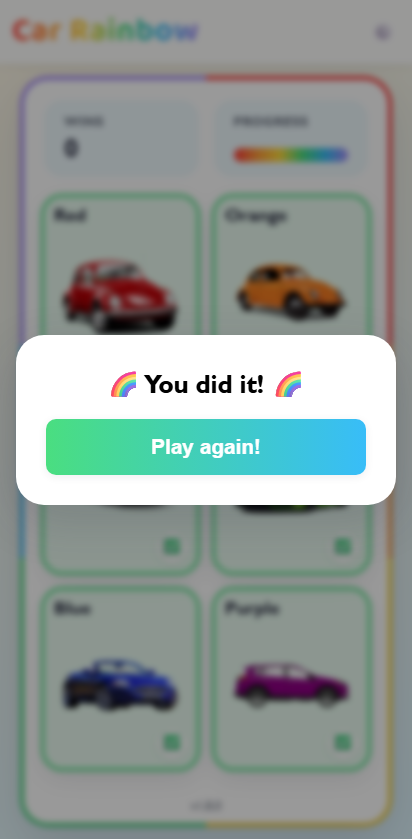
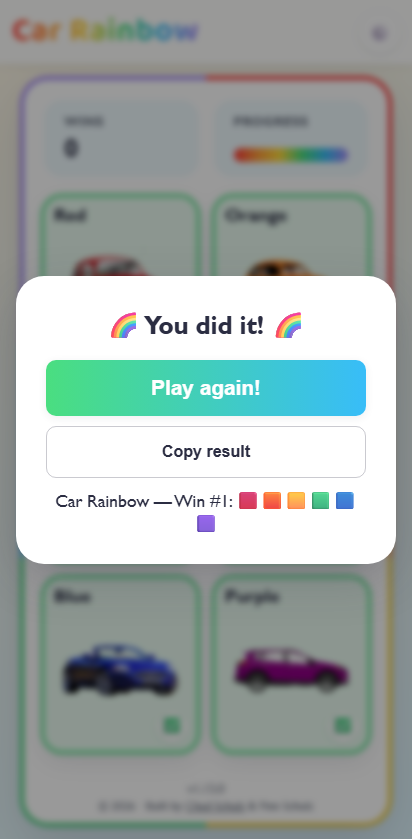
v1.14.0 — Shareable results

diff --git a/src/js/CarRainbow.test.jsx b/src/js/CarRainbow.test.jsx
@@ -81,6 +81,35 @@ describe('CarRainbow', () => {
         expect(screen.getByText('🌈 You did it! 🌈')).toBeInTheDocument();
     });
 
+    it('copies an emoji-grid result encoding the find order to the clipboard', async () => {
+        const user = userEvent.setup();
+        const writeText = vi.spyOn(navigator.clipboard, 'writeText').mockResolvedValue(undefined);
+        render(<CarRainbow />);
+
+        await findAllCars(user);
+        await user.click(screen.getByRole('button', { name: 'Copy result' }));
+
+        expect(writeText).toHaveBeenLastCalledWith('Car Rainbow — Win #1: 🟥🟧🟨🟩🟦🟪');
+        expect(await screen.findByRole('button', { name: 'Copied!' })).toBeInTheDocument();
+    });
+
+    it('opens the native share sheet instead of copying when the Web Share API is available', async () => {
+        const user = userEvent.setup();
+        const share = vi.fn().mockResolvedValue(undefined);
+        Object.defineProperty(navigator, 'share', { value: share, configurable: true });
+
+        try {
+            render(<CarRainbow />);
+            await findAllCars(user);
+            await user.click(screen.getByRole('button', { name: 'Share result' }));
+
+            expect(share).toHaveBeenCalledWith({ text: 'Car Rainbow — Win #1: 🟥🟧🟨🟩🟦🟪' });
+            expect(screen.queryByRole('button', { name: 'Copied!' })).not.toBeInTheDocument();
+        } finally {
+            delete navigator.share;
+        }
+    });
+
     it('resets the board and increments wins on replay', async () => {
         const user = userEvent.setup();
         render(<CarRainbow />);

diff --git a/src/js/Replay.jsx b/src/js/Replay.jsx
@@ -1,6 +1,26 @@
-import React, { forwardRef } from 'react';
+import React, { forwardRef, useState } from 'react';
+
+const COPIED_MESSAGE_DURATION = 2000;
 
 const Replay = forwardRef(function Replay(props, ref) {
+    const [copied, setCopied] = useState(false);
+    const canShare = typeof navigator.share === 'function';
+
+    async function shareResult() {
+        if (canShare) {
+            try {
+                await navigator.share({ text: props.shareText });
+            } catch (error) {
+                // user dismissed the share sheet — nothing to report
+            }
+            return;
+        }
+
+        await navigator.clipboard.writeText(props.shareText);
+        setCopied(true);
+        setTimeout(() => setCopied(false), COPIED_MESSAGE_DURATION);
+    }
+
     return (
         <dialog ref={ref} className="dialog" aria-labelledby="replay-title">
             <h3 id="replay-title" className="dialog__title">
@@ -10,6 +30,12 @@ const Replay = forwardRef(function Replay(props, ref) {
                 <button type="button" className="button" onClick={() => props.replayClick()}>
                     Play again!
                 </button>
+                <button type="button" className="button button--ghost" onClick={shareResult}>
+                    {canShare ? 'Share result' : copied ? 'Copied!' : 'Copy result'}
+                </button>
+                <p className="dialog__share-preview" aria-live="polite">
+                    {props.shareText}
+                </p>
             </div>
         </dialog>
     );

diff --git a/src/js/colors.js b/src/js/colors.js
@@ -1,19 +1,19 @@
 const RAINBOW_COLORS = [
-    { id: 'red', name: 'Red', hex: '#ff3b3b' },
-    { id: 'orange', name: 'Orange', hex: '#ff9a3b' },
-    { id: 'yellow', name: 'Yellow', hex: '#ffd93b' },
-    { id: 'green', name: 'Green', hex: '#4ade80' },
-    { id: 'blue', name: 'Blue', hex: '#38bdf8' },
-    { id: 'purple', name: 'Purple', hex: '#a78bfa' },
+    { id: 'red', name: 'Red', hex: '#ff3b3b', emoji: '🟥' },
+    { id: 'orange', name: 'Orange', hex: '#ff9a3b', emoji: '🟧' },
+    { id: 'yellow', name: 'Yellow', hex: '#ffd93b', emoji: '🟨' },
+    { id: 'green', name: 'Green', hex: '#4ade80', emoji: '🟩' },
+    { id: 'blue', name: 'Blue', hex: '#38bdf8', emoji: '🟦' },
+    { id: 'purple', name: 'Purple', hex: '#a78bfa', emoji: '🟪' },
 ];
 
 export const EXTENDED_COLORS = [
-    { id: 'black', name: 'Black', hex: '#1c1c24' },
-    { id: 'white', name: 'White', hex: '#f4f4f6' },
-    { id: 'brown', name: 'Brown', hex: '#8a5a35' },
-    { id: 'pink', name: 'Pink', hex: '#ff6fb0' },
-    { id: 'silver', name: 'Silver', hex: '#c4c8d0' },
-    { id: 'pattern', name: 'Pattern', hex: '#ff3bd4' },
+    { id: 'black', name: 'Black', hex: '#1c1c24', emoji: '⬛' },
+    { id: 'white', name: 'White', hex: '#f4f4f6', emoji: '⬜' },
+    { id: 'brown', name: 'Brown', hex: '#8a5a35', emoji: '🟫' },
+    { id: 'pink', name: 'Pink', hex: '#ff6fb0', emoji: '🩷' },
+    { id: 'silver', name: 'Silver', hex: '#c4c8d0', emoji: '🔘' },
+    { id: 'pattern', name: 'Pattern', hex: '#ff3bd4', emoji: '🏁' },
 ];
 
 export default RAINBOW_COLORS;

diff --git a/src/js/CarRainbow.jsx b/src/js/CarRainbow.jsx
@@ -6,6 +6,7 @@ import GameStatus from './GameStatus';
 import Popper from './Popper';
 import Replay from './Replay';
 import Settings from './Settings';
+import { buildShareText } from './share';
 import { playCheckSound, playReplaySound, playWinSong } from './sound';
 
 const WINS_STORAGE_KEY = 'car-rainbow-wins';
@@ -15,13 +16,14 @@ const DIFFICULTY_STORAGE_KEY = 'car-rainbow-difficulty';
 
 function buildColors(extendedColors) {
     const palette = extendedColors ? [...RAINBOW_COLORS, ...EXTENDED_COLORS] : RAINBOW_COLORS;
-    return palette.map(({ id, name, hex }) => ({ id, name, hex, active: false }));
+    return palette.map(({ id, name, hex, emoji }) => ({ id, name, hex, emoji, active: false }));
 }
 
 function createGameData(extendedColors) {
     return {
         wins: Number(localStorage.getItem(WINS_STORAGE_KEY)) || 0,
         colors: buildColors(extendedColors),
+        foundOrder: [],
     };
 }
 
@@ -69,6 +71,7 @@ function CarRainbow() {
         setData((previousData) => ({
             wins: previousData.wins + 1,
             colors: previousData.colors.map((color) => ({ ...color, active: false })),
+            foundOrder: [],
         }));
     }
 
@@ -81,7 +84,7 @@ function CarRainbow() {
         localStorage.setItem(EXTENDED_COLORS_STORAGE_KEY, String(enabled));
         setShowPopper(false);
         replayRef.current?.close();
-        setData((previousData) => ({ wins: previousData.wins, colors: buildColors(enabled) }));
+        setData((previousData) => ({ wins: previousData.wins, colors: buildColors(enabled), foundOrder: [] }));
     }
 
     function changeDifficulty(value) {
@@ -89,7 +92,7 @@ function CarRainbow() {
         localStorage.setItem(DIFFICULTY_STORAGE_KEY, value);
         setShowPopper(false);
         replayRef.current?.close();
-        setData((previousData) => ({ ...previousData, colors: previousData.colors.map((color) => ({ ...color, active: false })) }));
+        setData((previousData) => ({ ...previousData, colors: previousData.colors.map((color) => ({ ...color, active: false })), foundOrder: [] }));
     }
 
     function carClick(index) {
@@ -99,6 +102,7 @@ function CarRainbow() {
         }
 
         const updatedColors = data.colors.map((color, i) => (i === index ? { ...color, active: !color.active } : color));
+        const updatedFoundOrder = updatedColors[index].active ? [...data.foundOrder, index] : data.foundOrder.filter((i) => i !== index);
 
         playCheckSound(updatedColors[index].active);
 
@@ -108,8 +112,10 @@ function CarRainbow() {
             replayRef.current?.showModal();
         }
 
-        setData({ ...data, colors: updatedColors });
+        setData({ ...data, colors: updatedColors, foundOrder: updatedFoundOrder });
     }
+
+    const shareText = buildShareText(data.wins + 1, data.colors, data.foundOrder);
 
     return (
         <div className="app-frame" style={{ '--app-frame-gradient': frameGradient }}>
@@ -126,7 +132,7 @@ function CarRainbow() {
             <div className="app-card">
                 <GameStatus wins={data.wins} activeCount={activeCount} totalCount={data.colors.length} />
                 <div className={`car-rainbow ${extendedColors ? 'car-rainbow--extended' : ''}`}>{cars}</div>
-                <Replay ref={replayRef} replayClick={replayClick} />
+                <Replay ref={replayRef} replayClick={replayClick} shareText={shareText} />
                 <Popper active={showPopper} />
                 <Footer />
             </div>

diff --git a/src/js/share.test.js b/src/js/share.test.js
@@ -1,0 +1,16 @@
+import { buildShareText } from './share';
+import RAINBOW_COLORS from './colors';
+
+describe('buildShareText', () => {
+    it('encodes the colors in find-order as an emoji grid alongside the win number', () => {
+        const text = buildShareText(3, RAINBOW_COLORS, [2, 0, 4]);
+
+        expect(text).toBe('Car Rainbow — Win #3: 🟨🟥🟦');
+    });
+
+    it('produces an empty grid when nothing has been found yet', () => {
+        const text = buildShareText(1, RAINBOW_COLORS, []);
+
+        expect(text).toBe('Car Rainbow — Win #1: ');
+    });
+});

diff --git a/src/scss/_dialog.scss b/src/scss/_dialog.scss
@@ -26,6 +26,13 @@
 
 .dialog__options {
     display: grid;
+    gap: $padding-mobile * 0.5;
     grid-template-columns: 1fr;
     margin-top: $padding-mobile;
+}
+
+.dialog__share-preview {
+    font-size: 1.1em;
+    margin: 0;
+    text-align: center;
 }

diff --git a/src/js/share.js b/src/js/share.js
@@ -1,0 +1,4 @@
+export function buildShareText(winNumber, colors, foundOrder) {
+    const grid = foundOrder.map((index) => colors[index].emoji).join('');
+    return `Car Rainbow — Win #${winNumber}: ${grid}`;
+}

diff --git a/BACKLOG.md b/BACKLOG.md
@@ -19,7 +19,6 @@ _No open bugs._
 | Title | Effort | Value |
 |-------|--------|-------|
 | [Parallax scenery background](#parallax-scenery-background) | M | M |
-| [Shareable results](#shareable-results) | M | M |
 | [Localization](#localization) | L | M |
 
 ## Open
@@ -36,12 +35,6 @@ _No open bugs._
 **Why** — only Prettier formatting is configured today; ESLint with `eslint-plugin-react`/`eslint-plugin-react-hooks` would catch real bugs — like the direct state mutation in `carClick`/`replayClick` — automatically, before they ship
 **Notes:** wire into an `npm run lint` script and CI; pair with `eslint-config-prettier` to avoid rule conflicts with the existing `.prettierrc`
 
-### Outdated browserslist data
-
-**Type:** improvement
-**Why** — the dev server logs a warning that `caniuse-lite` (used by Browserslist, which underpins Parcel's CSS/JS autoprefixing and target resolution) is outdated, which can cause builds to target stale browser versions
-**Notes:** run `npx update-browserslist-db@latest` to refresh the `caniuse-lite` data; consider documenting this as a periodic maintenance task
-
 ### No offline/PWA support
 
 **Type:** improvement
@@ -53,12 +46,6 @@ _No open bugs._
 **Type:** feature
 **Why** — the original "sound effects / animations" idea is now shipped (check/replay/win sounds and the rainbow progress border in v1.3.0, the staggered "drive-in" car entrance animation in v1.5.0); the one piece of that brainstorm still open is a subtly scrolling road/skyline backdrop, which would add depth and atmosphere to the play area without touching game mechanics
 **Notes:** needs new art assets (road/skyline layers); animate via CSS `background-position` keyframes or layered `transform: translateX`; respect `prefers-reduced-motion` like the existing `car-drive-in` animation does; see the brainstorm entry below for the original framing alongside the now-shipped "drive-in" half
-
-### Shareable results
-
-**Type:** feature
-**Why** — there's currently no way for a player to show off a win beyond the in-app dialog; a shareable result (emoji grid, snapshot image, or link) would encourage social sharing and return visits
-**Notes:** see the brainstorm's "daily challenge" emoji-grid idea and "snapshot/share card" canvas-rendering idea below for two concrete directions
 
 ### Localization
 
@@ -81,4 +68,4 @@ A fresh pass looking for ideas that build on what's already shipped (the card re
 
 ### Craziest idea: the One Big Rainbow
 
-A real-time, planet-wide shared board: every visitor across the globe sees the *same* six cars, and the instant *anyone, anywhere* finds one, it lights up for *everyone* simultaneously (via a lightweight WebSocket/pub-sub backend). Finishing the rainbow becomes a collective act — thousands of strangers unknowingly cooperating to complete one giant, perpetually-resetting rainbow together, with a live counter showing how many times humanity has finished it. Equal parts beautiful and unhinged: it turns a 30-second solo diversion into an ambient, ongoing piece of internet performance art that nobody agreed to participate in.
+A real-time, planet-wide shared board: every visitor across the globe sees the _same_ six cars, and the instant _anyone, anywhere_ finds one, it lights up for _everyone_ simultaneously (via a lightweight WebSocket/pub-sub backend). Finishing the rainbow becomes a collective act — thousands of strangers unknowingly cooperating to complete one giant, perpetually-resetting rainbow together, with a live counter showing how many times humanity has finished it. Equal parts beautiful and unhinged: it turns a 30-second solo diversion into an ambient, ongoing piece of internet performance art that nobody agreed to participate in.

diff --git a/CHANGELOG.md b/CHANGELOG.md
@@ -2,6 +2,12 @@
 
 All notable changes to Car Rainbow are documented here. Versions follow [Semantic Versioning](https://semver.org/); dates reflect when each change landed on `main`.
 
+## [1.14.0] - 2026-06-07
+
+### Added
+
+- **Shareable results.** Win results can now be shared via the native OS share sheet on mobile (iOS Safari, Chrome Android, etc. via the Web Share API) or copied to the clipboard on desktop, displaying an emoji-grid encoding the find-order and win counter (e.g. "Car Rainbow — Win #1: 🟥🟧🟨🟩🟦🟪"); added emoji fields to color definitions in `src/js/colors.js`, tracking of find-order in `CarRainbow.jsx` state, a new `buildShareText` helper in `src/js/share.js`, and a "Share/Copy result" button in the win dialog (`Replay.jsx`)
+
 ## [1.13.0] - 2026-06-07
 
 ### Added